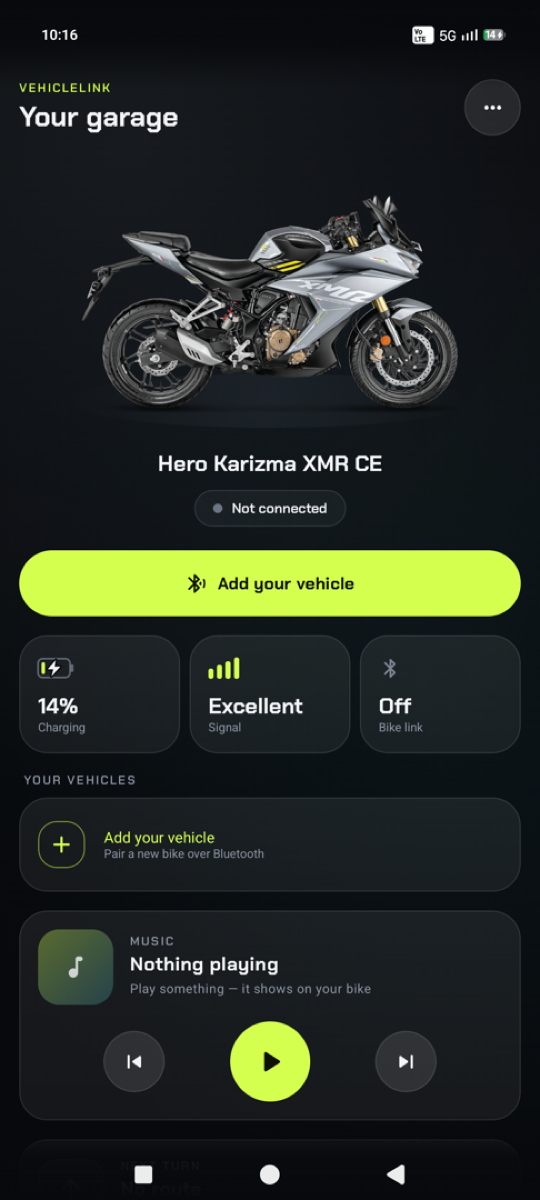
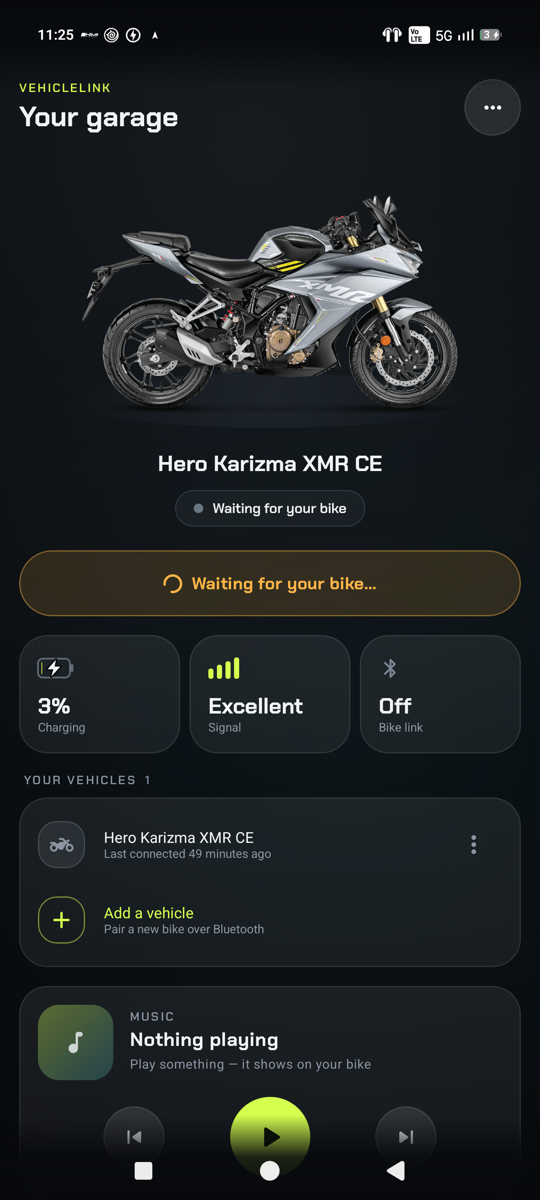
README: refresh screenshots with current design (vehicles, add sheet, test bench)

diff --git a/README.md b/README.md
@@ -12,12 +12,13 @@ behaviour and packet formats in its own code.
 > interoperability with a bike you own. Use at your own risk; don't operate the app while riding.
 
 <p align="center">
-  <img src="docs/screenshots/home.png" width="240" alt="Home screen">
+  <img src="docs/screenshots/home.png" width="240" alt="Home: your vehicles, waiting for the bike to power on">
+  &nbsp;
+  <img src="docs/screenshots/add-vehicle.png" width="240" alt="Add-vehicle sheet searching nearby">
   &nbsp;
   <img src="docs/screenshots/settings.png" width="240" alt="Settings">
-  &nbsp;
-  <img src="docs/screenshots/test-bench-arrows.png" width="240" alt="Test bench: turn arrows">
 </p>
+<p align="center"><sub>Home (waiting for the bike to power on) · Adding a vehicle · Settings</sub></p>
 
 ## Features
 
@@ -55,8 +56,13 @@ behaviour and packet formats in its own code.
 - Dark "cockpit" design with animated states, the Chakra Petch display font, and a charging indicator.
 
 <p align="center">
-  <img src="docs/screenshots/test-bench-phone.png" width="240" alt="Test bench: phone status and counters">
+  <img src="docs/screenshots/test-bench-arrows.png" width="240" alt="Test bench: every turn arrow">
+  &nbsp;
+  <img src="docs/screenshots/test-bench-call.png" width="240" alt="Test bench: fake calls and the confirm-reject countdown">
+  &nbsp;
+  <img src="docs/screenshots/test-bench-phone.png" width="240" alt="Test bench: battery, signal and counters">
 </p>
+<p align="center"><sub>Test bench: turn arrows · calls and confirm-reject · phone status and counters</sub></p>
 
 ## Status
 
